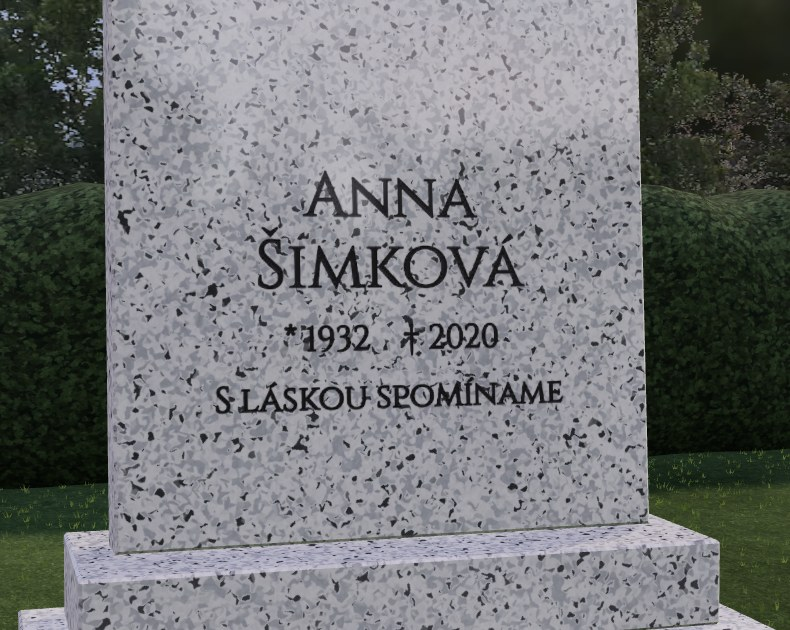
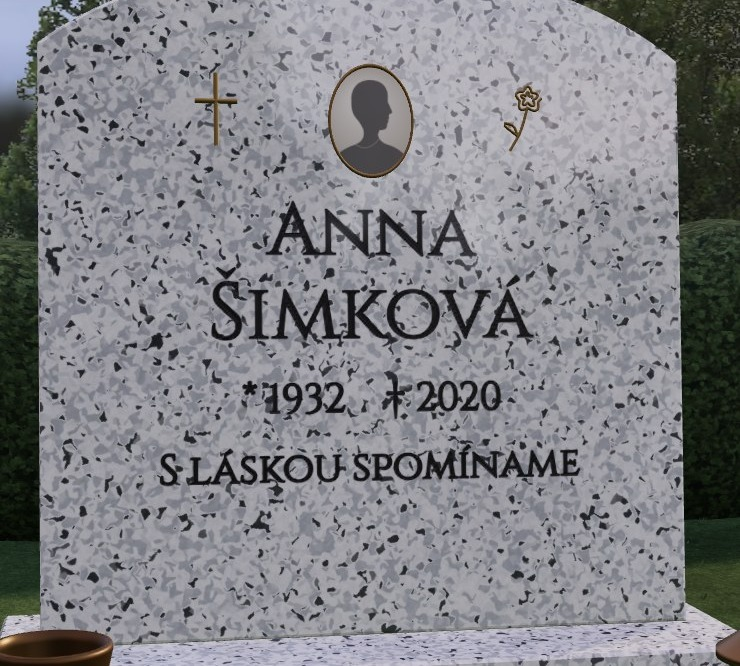
D · Slovenská sadzba, stabilné načítanie a tri výšky panela

diff --git a/studio/css/studio.css b/studio/css/studio.css
@@ -1,26 +1,26 @@
 *{box-sizing:border-box}
 body{--paper:var(--pozadie,#f8f6f0);--ink:var(--text,#242921);--green:var(--akcent2,#304237);--rule:color-mix(in srgb,var(--ink) 18%,transparent);margin:0;background:var(--paper);color:var(--ink);font:15px/1.42 var(--pismoText,Arial),sans-serif}
 header,.brand,.stone,.tools,.zoom,.environments{display:flex;align-items:center}
-header{height:62px;padding:0 clamp(16px,3vw,48px);justify-content:space-between;border-bottom:1px solid var(--rule)}
-.brand{gap:12px;font:22px var(--pismoNadpis,Georgia),serif}.brandmark{display:grid;place-items:center;background:var(--green);width:34px;height:34px}.brandmark img{width:29px}.studio{font-size:14px}
-main,.layout,.viewer,#viewport{position:relative}.viewer{height:calc(100svh - 62px);min-height:410px;background:#cccac0}
+header{height:64px;padding:0 clamp(16px,3vw,48px);justify-content:space-between;border-bottom:1px solid var(--rule)}
+.brand{gap:8px;font:22px var(--pismoNadpis,Georgia),serif}.brandmark{display:grid;place-items:center;background:var(--green);width:34px;height:34px}.brandmark img{width:29px}.studio{font-size:14px}
+main,.layout,.viewer,#viewport{position:relative}.viewer{height:calc(100svh - 64px);min-height:410px;background:#cccac0}
 #viewport,#viewport canvas{width:100%;height:100%;display:block}#viewport .scene-fade{position:absolute;inset:0;pointer-events:none}
 button,select{font:inherit;color:inherit}button{background:transparent;border:0;cursor:pointer;min-height:42px}
 button:focus-visible,select:focus-visible,canvas:focus-visible{outline:3px solid var(--akcent,#825b35);outline-offset:-3px}
 .environments,.tools,.zoom{position:absolute;gap:2px;background:color-mix(in srgb,var(--paper) 94%,transparent);border:1px solid #fff9;border-radius:5px;padding:3px;box-shadow:0 1px 6px #12180f25}
-.environments{left:28px;top:24px}.tools{left:28px;bottom:24px}.zoom{right:calc(min(330px,31vw) + 58px);bottom:24px}
+.environments{left:24px;top:24px}.tools{left:24px;bottom:24px}.zoom{right:calc(min(330px,31vw) + 58px);bottom:24px}
 .environments button,.tools button{padding:0 12px;border-radius:2px;font-size:13px}.zoom button{font-size:20px;width:40px}
 button[aria-pressed=true]{background:var(--green);color:var(--paper)}
-aside{position:absolute;top:24px;right:28px;width:min(330px,31vw);max-height:calc(100% - 48px);overflow:auto;padding:26px 24px 22px;background:color-mix(in srgb,var(--paper) 91%,transparent);backdrop-filter:blur(16px);border:1px solid #fffa;border-radius:6px;box-shadow:0 8px 30px #19241724}
+aside{position:absolute;top:24px;right:24px;width:min(330px,31vw);max-height:calc(100% - 48px);overflow:auto;padding:26px 24px 22px;background:color-mix(in srgb,var(--paper) 91%,transparent);backdrop-filter:blur(16px);border:1px solid #fffa;border-radius:6px;box-shadow:0 8px 30px #19241724}
 .eyebrow,dt,small,.hint{font-size:13px;color:color-mix(in srgb,var(--ink) 80%,var(--paper))}h1{font:normal 33px/1.1 var(--pismoNadpis,Georgia),serif;margin:6px 0 21px}dl{margin:0 0 20px}dl div{display:flex;justify-content:space-between;align-items:baseline;padding:10px 0;border-top:1px solid var(--rule)}dl div:last-child{border-bottom:1px solid var(--rule)}dd{margin:0;font-variant-numeric:tabular-nums}
 .stone{gap:12px;margin-top:8px}.swatch{width:52px;height:52px;border-radius:50%;object-fit:cover}strong,small{display:block}strong{font-weight:600}.hint{display:none}#handle{display:none}
 #loader{position:fixed;inset:0;z-index:5;background:var(--paper);display:grid;align-content:center;justify-items:center;gap:25px}#loader img{background:var(--green);width:66px;padding:8px}#loader progress{appearance:none;border:0;width:150px;height:2px;background:#ccc}progress::-webkit-progress-bar{background:#ccc}progress::-webkit-progress-value{background:var(--green)}#loader[hidden]{display:none}
 #error{position:fixed;inset:auto 12px 12px;background:var(--paper);padding:10px;z-index:6}
 @media(max-width:760px){
  header{height:51px}.brand{font-size:19px;gap:8px}.brandmark{width:29px;height:29px}.studio{font-size:11px}.layout{height:calc(100svh - 51px);overflow:hidden}
- .viewer{height:55svh;min-height:0;transition:height .28s}.layout.folded .viewer{height:calc(100% - 35px)}
- aside{top:55svh;right:0;bottom:0;width:100%;max-height:none;padding:0 20px 12px;border-radius:13px 13px 0 0;transition:top .28s}.layout.folded aside{top:calc(100% - 35px)}
- #handle{display:grid;place-items:center;width:100%;min-height:30px;touch-action:none}#handle i{width:39px;height:4px;background:#595e55;border-radius:4px}.eyebrow{font-size:12px}h1{font-size:27px;margin:3px 0 12px}dl{margin-bottom:14px}dl div{padding:7px 0}
+ .viewer{height:55svh;min-height:0;transition:height .28s}.layout.folded .viewer{height:calc(100% - 40px)}
+ aside{top:55svh;right:0;bottom:0;width:100%;max-height:none;padding:0 20px 12px;border-radius:13px 13px 0 0;transition:top .28s}.layout.folded aside{top:calc(100% - 40px)}
+ #handle{display:grid;place-items:center;width:100%;min-height:40px;touch-action:none}#handle i{width:39px;height:4px;background:#595e55;border-radius:4px}.eyebrow{font-size:12px}h1{font-size:27px;margin:3px 0 12px}dl{margin-bottom:14px}dl div{padding:7px 0}
  .environments{left:8px;top:8px}.tools{left:8px;bottom:8px}.zoom{right:8px;top:8px;bottom:auto;flex-direction:column}.zoom button{width:31px;min-height:34px}.environments button,.tools button{font-size:11px;padding:0 7px;min-height:36px}
 }
 @media(prefers-reduced-motion:reduce){*{transition:none!important}}
@@ -49,19 +49,19 @@ aside details{border-top:1px solid var(--rule)}aside summary{cursor:pointer;padd
 @font-face{font-family:Cinzel;src:url('../fonts/Cinzel.woff2') format('woff2');font-weight:400 900;font-display:swap}
 @font-face{font-family:Playfair;src:url('../fonts/Playfair.woff2') format('woff2');font-weight:400 900;font-display:swap}
 @font-face{font-family:GreatVibes;src:url('../fonts/GreatVibes.woff2') format('woff2');font-display:swap}
-body{font-size:14px}.brand{font-size:28px;font-weight:600}.studio{font-size:12px}
+body{font-size:14px}.brand{font:500 26px/1.2 var(--pismoZnacky,var(--pismoNadpis)),serif}.studio{font-size:12px}
 aside{padding:24px;width:min(352px,32vw);scrollbar-width:thin;scrollbar-color:#aca898 transparent;background:linear-gradient(var(--paper) 35%,transparent) top/100% 22px local no-repeat,linear-gradient(to top,var(--paper) 35%,transparent) bottom/100% 22px local no-repeat,linear-gradient(#322e2314,transparent) top/100% 8px scroll no-repeat,linear-gradient(to top,#322e2314,transparent) bottom/100% 8px scroll no-repeat,color-mix(in srgb,var(--paper) 96%,transparent)}
 .eyebrow{font-size:12px}h1{font-size:40px;line-height:1;margin:4px 0 16px;font-weight:600}
 .choices{display:grid;grid-template-columns:1fr;gap:16px;padding:16px 0}
 .choices fieldset,.letter-choice{min-width:0;border:0;padding:0;margin:0}
-.choices legend,.letter-choice legend,.material-field>span{font:500 12px/1.4 var(--pismoText);padding:0;margin:0 0 6px}
+.choices legend,.letter-choice legend,.material-field>span{font:500 12px/1.4 var(--pismoText);padding:0;margin:0 0 8px}
 .cards{display:grid;grid-auto-columns:minmax(0,1fr);grid-auto-flow:column;gap:4px}
-.cards label,.choices .cards label,.choices .cards label:first-child{position:relative;display:flex;grid-column:auto;flex-direction:column;align-items:center;justify-content:center;gap:3px;text-align:center;padding:5px 2px;min-height:48px;background:#ffffff45;border:1px solid var(--rule);border-radius:3px;cursor:pointer;font:400 11px/1.15 var(--pismoText);transition:background .16s,border-color .16s}
+.cards label,.choices .cards label,.choices .cards label:first-child{position:relative;display:flex;grid-column:auto;flex-direction:column;align-items:center;justify-content:center;gap:4px;text-align:center;padding:4px 2px;height:64px;min-height:64px;background:#ffffff45;border:1px solid var(--rule);border-radius:3px;cursor:pointer;font:400 11px/1.15 var(--pismoText);transition:background .16s,border-color .16s}
 .cards input{position:absolute;width:1px;height:1px;opacity:0;pointer-events:none}
 .cards label:hover,#samples button:hover{border-color:var(--akcent);background:#fff9}
 .cards label:has(:checked),#samples button[aria-pressed=true]{border-color:var(--akcent);background:color-mix(in srgb,var(--akcent) 7%,var(--paper))}
 .cards label:has(:focus-visible){outline:2px solid var(--green);outline-offset:2px}
-.cards svg,.environments svg,.tools svg{display:block;width:35px;height:24px;fill:none;stroke:currentColor;stroke-width:1.6;stroke-linecap:round;stroke-linejoin:round}
+.cards svg,.environments svg,.tools svg{display:block;width:32px;height:24px;fill:none;stroke:currentColor;stroke-width:1.6;stroke-linecap:round;stroke-linejoin:round}
 .engrave-fields .letter-choice{display:block;grid-column:1/-1;border:0;padding:0}
 .fonts i{font-style:normal;font-size:19px;line-height:1.2}.inks i{width:21px;height:21px;border-radius:50%;border:1px solid #0002}.inks label{min-width:0;font-size:10px}
 .inks label[data-recommended] i{outline:1px dotted var(--akcent);outline-offset:2px}
@@ -75,14 +75,14 @@ aside details summary{font-weight:600;font-size:23px}aside details[open]>div{ani
 .zoom{right:calc(min(352px,32vw) + 58px)}#loader img{height:66px}#load-logo:not([src]){visibility:hidden}
 @media(max-width:760px){
  header{height:48px}.brand{font-size:24px}.studio{font-size:10px}.layout{height:calc(100svh - 48px)}
- .viewer{display:grid;grid-template:36px minmax(0,1fr) 36px / 1fr auto;height:55svh;gap:0;background:var(--paper)}
+ .viewer{display:grid;grid-template:40px minmax(0,1fr) 40px / 1fr auto;height:55svh;gap:0;background:var(--paper)}
  #viewport{grid-area:2/1/3/3;min-height:0}
  .environments,.tools,.zoom{position:static;box-shadow:none;background:transparent;border:0;padding:0 4px;gap:2px}
- .environments{grid-area:1/1/2/3}.tools{grid-area:3/1/4/2}.zoom{grid-area:3/2/4/3;flex-direction:row;padding-left:0}.zoom button{width:27px;min-height:32px;font-size:17px}
- .tools button,.environments button{padding:0 4px;font-size:10px;min-height:29px;gap:3px}
+ .environments{grid-area:1/1/2/3}.tools{grid-area:3/1/4/2}.zoom{grid-area:3/2/4/3;flex-direction:row;padding-left:0}.zoom button{width:32px;min-height:36px;font-size:17px}
+ .tools button,.environments button{padding:0 4px;font-size:10px;min-height:36px;gap:4px}
  .tools svg,.environments svg{width:14px;height:14px}
- aside{width:100%;padding:0 16px 16px}.layout[data-sheet="2"] aside{top:8svh}.layout[data-sheet="2"] .viewer{height:55svh}
- .choices{grid-template-columns:1fr;gap:12px}.choices .cards label{min-height:48px}.layout.folded .viewer{height:calc(100% - 35px)}
+ aside{width:100%;padding:0 16px 16px}.layout[data-sheet="2"] aside{top:30%}.layout[data-sheet="2"] .viewer{height:30%}
+ .choices{grid-template-columns:1fr;gap:12px}.choices .cards label{height:56px;min-height:56px}.layout.folded .viewer{height:calc(100% - 40px)}
  h1{font-size:32px}.engrave-fields select{min-width:0}
 }
 @media(max-width:380px){.tools button{font-size:9px}.tools svg{width:11px}}
@@ -97,3 +97,15 @@ aside details summary{font-weight:600;font-size:23px}aside details[open]>div{ani
 
 #samples button{position:relative}
 #samples button::after{content:"";position:absolute;inset:3px;border-radius:50%;pointer-events:none;background:linear-gradient(140deg,#ffffff40,transparent 47%);box-shadow:inset 0 0 0 1px #19190f25}
+
+summary:focus-visible,#extras input:focus-visible,.engrave-fields :is(input,textarea):focus-visible{outline:2px solid var(--green);outline-offset:2px}
+.cards label:has(:checked){box-shadow:inset 0 -2px color-mix(in srgb,var(--akcent) 65%,transparent)}
+@media(min-width:761px){.choices .cards{gap:4px}.choices .cards label{font-size:11px}.environments,.tools,.zoom{border-radius:8px}}
+@media(max-width:760px){.layout[data-sheet="2"] #viewport{overflow:hidden}#sheet-content{padding-bottom:env(safe-area-inset-bottom)}}
+@media(max-width:440px){
+ .tools{justify-content:space-between;gap:0}
+ .tools svg{display:none}
+ .tools button{white-space:nowrap;padding:0 5px;min-height:40px}
+ .environments button,.zoom button{min-height:40px}
+}
+body:has(#loader:not([hidden])) :is(header,main){visibility:hidden}

diff --git a/studio/js/app.js b/studio/js/app.js
@@ -25,11 +25,15 @@ async function start(){
   for(const [key,value] of Object.entries(tema)){
     document.documentElement.style.setProperty('--'+key,value);
   }
+  // Pair the display face with a sturdier wordmark at small header sizes.
+  if(!tema.pismoZnacky&&tema.pismoNadpis==='Cormorant'){
+    document.documentElement.style.setProperty('--pismoZnacky','Playfair');
+  }
   document.documentElement.style.setProperty('--radius',tema.zaoblenie+'px');
   document.title=t.title+' · '+firma.nazov;
   el('load-logo').src=base+firma.logo;
   const progress=document.querySelector('progress');progress.value=2;progress.setAttribute('aria-label',t.loading);
-  el('brand').textContent=firma.nazov;el('logo').src=base+firma.logo;
+  el('brand').textContent=firma.nazov.normalize('NFC');el('logo').src=base+firma.logo;
   for(const node of document.querySelectorAll('[data-t]'))node.textContent=t[node.dataset.t];
   for(const node of document.querySelectorAll('[data-label],[data-view]')){
     node.setAttribute('aria-label',t[node.dataset.label??node.dataset.t]);
@@ -60,6 +64,7 @@ async function start(){
     tier=Math.max(0,Math.min(2,value));layout.dataset.sheet=tier;
     layout.classList.toggle('folded',tier===0);handle.setAttribute('aria-expanded',String(tier>0));
     el('sheet-content').inert=tier===0;
+    if(tier===0)handle.closest('aside').scrollTop=0;
     handle.title=t.sheetLevels[tier];handle.setAttribute('aria-label',handle.title);
   }
   handle.onclick=()=>{if(!dragged)sheet((tier+1)%3);dragged=false;};

diff --git a/studio/js/editor.js b/studio/js/editor.js
@@ -73,8 +73,8 @@ export function editor(config,t,product,viewer,detail){
     const id=++version,family=fonts[font.value]??'Cormorant';
     await document.fonts.load('24px '+family);
     await new Promise(requestAnimationFrame);if(id!==version)return;
-    viewer.decorate({font:family,finish:finish.value,extras:selected,photo,epitaph:epitaph.value,
-      people:people.map(person=>Object.fromEntries(Object.entries(person).map(([k,input])=>[k,input.value.trim()])))});
+    viewer.decorate({font:family,finish:finish.value,extras:selected,photo,epitaph:epitaph.value.normalize('NFC'),
+      people:people.map(person=>Object.fromEntries(Object.entries(person).map(([k,input])=>[k,input.value.trim().normalize('NFC')])))});
   }
   let chosen=false;
   finish.container.addEventListener('change',()=>{chosen=true;});

diff --git a/studio/js/scena.js b/studio/js/scena.js
@@ -260,7 +260,7 @@ export function scena(host,model,stone,onOrbit){
       camera.position.copy(controls.target).add(offset);controls.update();
     }
     previousAspect=aspect;camera.aspect=aspect;
-    const offset=host.clientWidth>760?(document.querySelector('aside').offsetWidth+28)*.48:0;
+    const offset=host.clientWidth>760?(document.querySelector('aside').offsetWidth+24)*.48:0;
     camera.setViewOffset(host.clientWidth,host.clientHeight,offset,0,host.clientWidth,host.clientHeight);
     camera.updateProjectionMatrix();
     renderer.setSize(host.clientWidth,host.clientHeight,false);invalidate();
